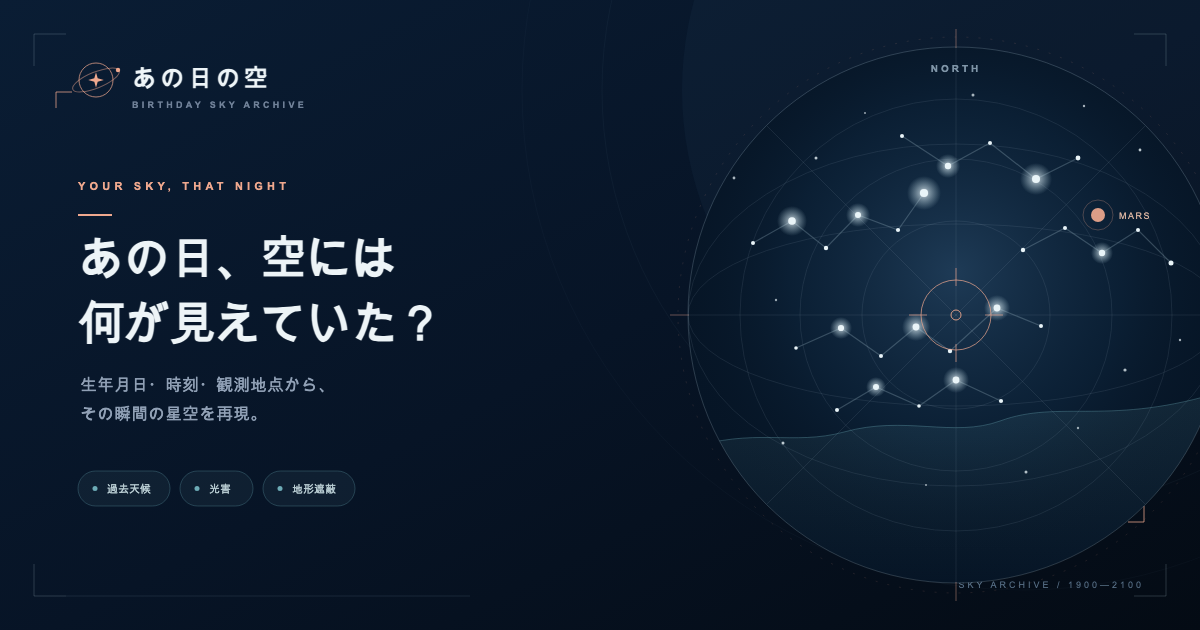
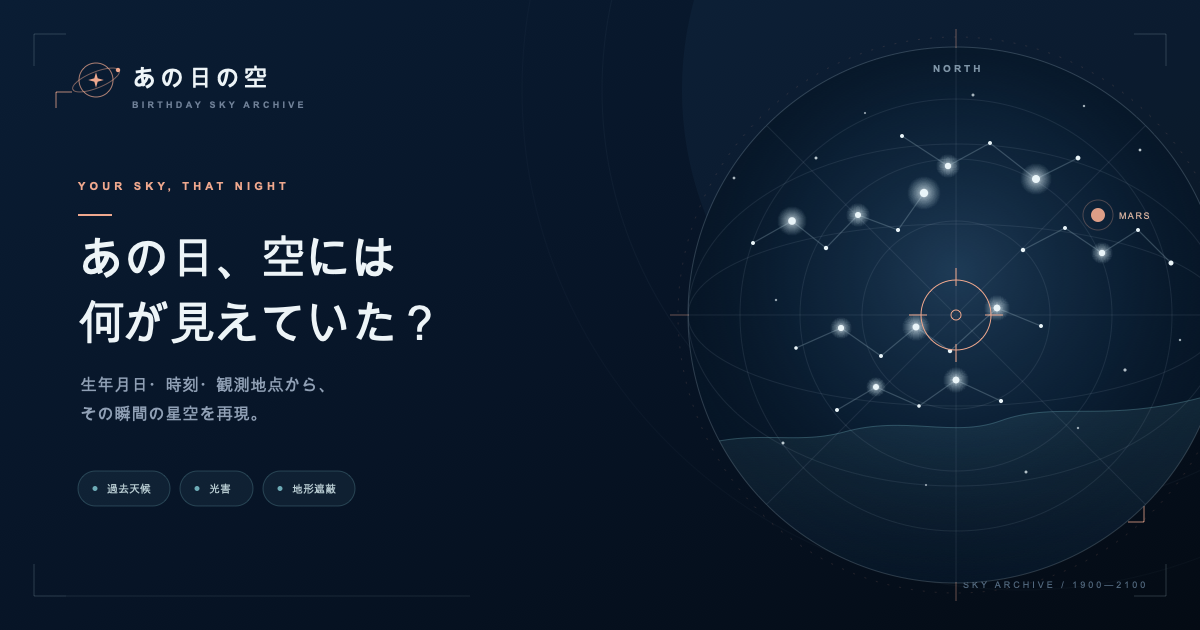
タイトル間違い修正

diff --git a/index.html b/index.html
@@ -16,7 +16,7 @@
     <meta property="og:type" content="website" />
     <meta property="og:locale" content="ja_JP" />
     <meta property="og:site_name" content="あの日の空" />
-    <meta property="og:title" content="あの日の空 — Birthday Sky" />
+    <meta property="og:title" content="あの日の空 あの日、空には 何が見えていた？" />
     <meta
       property="og:description"
       content="生年月日・時刻・観測地点から、その瞬間の星空を再現。過去天候・光害・地形遮蔽まで反映するWebアプリ。"
@@ -34,11 +34,11 @@
     <meta property="og:image:height" content="630" />
     <meta
       property="og:image:alt"
-      content="あの日の空 — 生年月日・時刻・観測地点から星空を再現するWebアプリ"
+      content="あの日の空 あの日、空には 何が見えていた？ — 生年月日・時刻・観測地点から星空を再現するWebアプリ"
     />
 
     <meta name="twitter:card" content="summary_large_image" />
-    <meta name="twitter:title" content="あの日の空 — Birthday Sky" />
+    <meta name="twitter:title" content="あの日の空 あの日、空には 何が見えていた？" />
     <meta
       name="twitter:description"
       content="生年月日・時刻・観測地点から、その瞬間の星空を再現。過去天候・光害・地形遮蔽まで反映するWebアプリ。"
@@ -49,9 +49,9 @@
     />
     <meta
       name="twitter:image:alt"
-      content="あの日の空 — 生年月日・時刻・観測地点から星空を再現するWebアプリ"
+      content="あの日の空 あの日、空には 何が見えていた？ — 生年月日・時刻・観測地点から星空を再現するWebアプリ"
     />
-    <title>あの日の空 — Birthday Sky</title>
+    <title>あの日の空 あの日、空には 何が見えていた？</title>
   </head>
   <body>
     <div id="root"></div>
